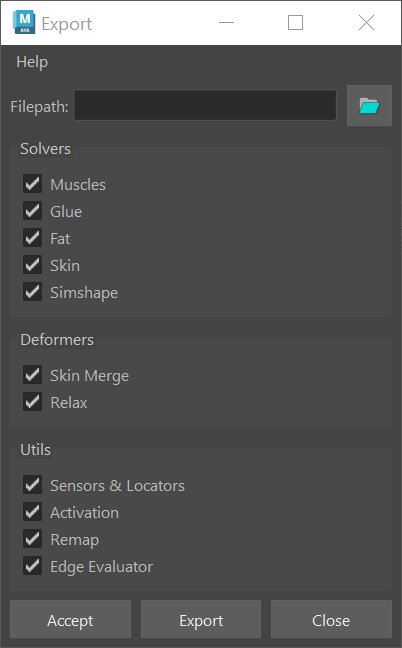
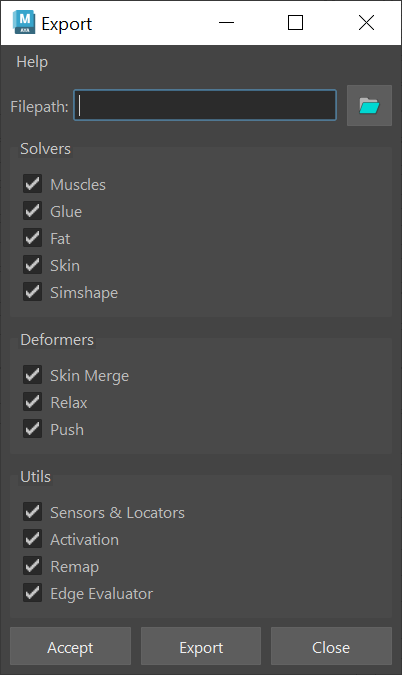
Update export/import tools pages to show the recently added AdnPush deformer

diff --git a/docs/maya/tools/exporter.md b/docs/maya/tools/exporter.md
@@ -23,6 +23,7 @@ The Export Tool offers an intuitive interface (see Figure 1), allowing users to 
 - **Deformers**: Specifies which deformers should be included in the export. Options include:
     - Skin Merge: include AdnSkinMerge nodes in the exported data.
     - Relax: include AdnRelax nodes in the exported data.
+    - Push: include AdnPush nodes in the exported data.
 
 - **Utils**: Allows exporting additional utility components from the setup. Options include:
     - Sensors & Locators: include AdonisFX sensors and locators in the exported data, ensuring proper connections between components.

diff --git a/docs/maya/tools/importer.md b/docs/maya/tools/importer.md
@@ -23,6 +23,7 @@ The Import Tool offers an intuitive interface (see Figure 1), allowing users to 
 - **Deformers**. Specifies which deformers should be imported. Options include:
     - Skin Merge: imports AdnSkinMerge nodes and their settings.
     - Relax: imports AdnRelax nodes and their settings.
+    - Push: imports AdnPush nodes and their settings.
 
 - **Utils**. Allows importing utility components from the JSON file. Options include:
     - Sensors & Locators: imports AdonisFX sensors and locators, ensuring proper connections between components.
